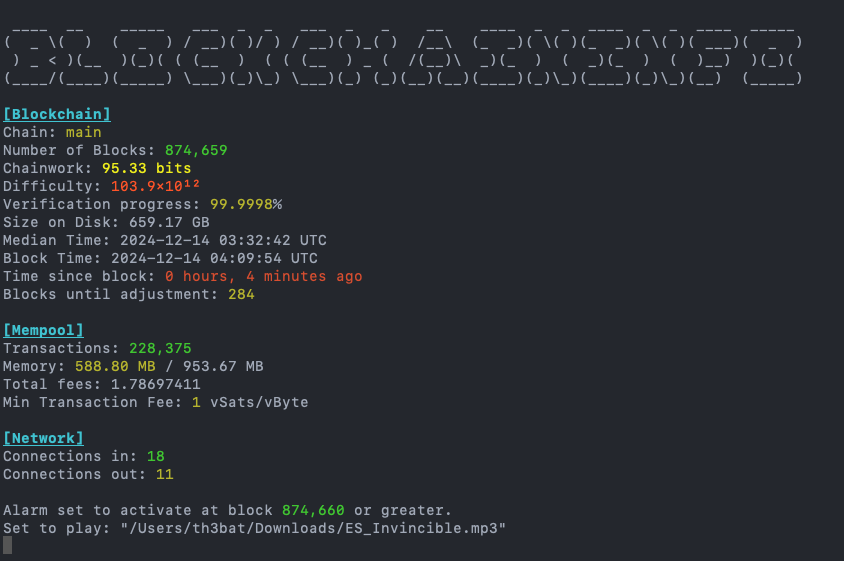
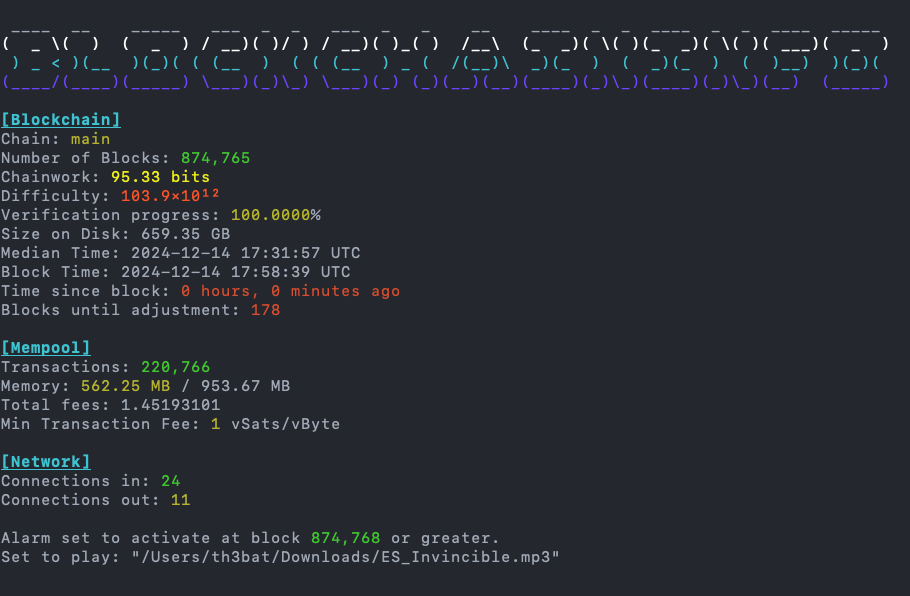
Added color to ANSI art app  name.

diff --git a/src/display/display_blockchain_info.rs b/src/display/display_blockchain_info.rs
@@ -17,10 +17,10 @@ pub fn display_blockchain_info(blockchain_info: &BlockchainInfo) -> Result<(), M
     let formatted_chainwork_bits = blockchain_info.formatted_chainwork_bits()?;
 
     println!();
-    println!(r" ____  __    _____   ___  _  _   ___  _   _    __    ____  _  _  ____  _  _  ____  _____ ");
-    println!(r"(  _ \(  )  (  _  ) / __)( )/ ) / __)( )_( )  /__\  (_  _)( \( )(_  _)( \( )( ___)(  _  )");
-    println!(r" ) _ < )(__  )(_)( ( (__  )  ( ( (__  ) _ (  /(__)\  _)(_  )  (  _)(_  )  (  )__)  )(_)(");
-    println!(r"(____/(____)(_____) \___)(_)\_) \___)(_) (_)(__)(__)(____)(_)\_)(____)(_)\_)(__)  (_____)");
+    println!("{}", r" ____  __    _____   ___  _  _   ___  _   _    __    ____  _  _  ____  _  _  ____  _____ ".normal());
+    println!("{}", r"(  _ \(  )  (  _  ) / __)( )/ ) / __)( )_( )  /__\  (_  _)( \( )(_  _)( \( )( ___)(  _  )".bright_white());
+    println!("{}", r" ) _ < )(__  )(_)( ( (__  )  ( ( (__  ) _ (  /(__)\  _)(_  )  (  _)(_  )  (  )__)  )(_)(".cyan());
+    println!("{}", r"(____/(____)(_____) \___)(_)\_) \___)(_) (_)(__)(__)(____)(_)\_)(____)(_)\_)(__)  (_____)".blue());
     println!();
     println!("{}", "[Blockchain]".bold().underline().cyan());
     println!("Chain: {}", blockchain_info.chain.yellow());
